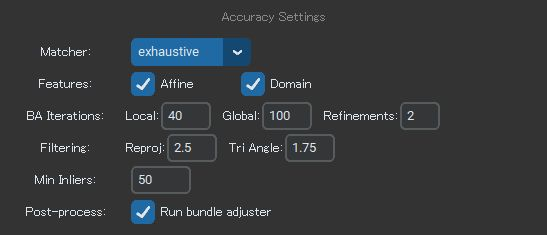
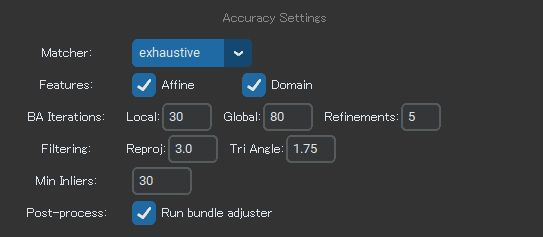
Expand Matcher tip with RANSAC tuning rationale in all four articles
Add explanation of the recommended parameter strategy for SphereSfM's
exhaustive matcher: set Iterations and Refinements high to increase RANSAC
sampling passes, and keep MinInliers low to avoid discarding weak-but-valid
loop closure candidates. Applied to Basic and Advanced articles in both JP
and EN.

diff --git a/Documents/Advanced/article.md b/Documents/Advanced/article.md
@@ -181,7 +181,8 @@ LichtFeld を選択すると、SfM・点群生成・Gaussian Splatting まで一
    その他の設定はデフォルトのままで問題ありません。
 
 > **💡 Matcher の選択について**  
-> `sequential` の代わりに `exhaustive` を選択すると、**Loop Closure** の精度が向上しやすくなります。さらに精度を高めたい場合は、下記画像を参考に条件を厳しめに設定することも可能ですが、処理時間が大幅に増加したり SfM が失敗するリスクもあるためご注意ください。
+> `sequential` の代わりに `exhaustive` を選択すると、**Loop Closure** の精度が向上しやすくなります。さらに精度を高めたい場合は、下記画像を参考に条件を厳しめに設定することも可能ですが、処理時間が大幅に増加したり SfM が失敗するリスクもあるためご注意ください。  
+> 筆者が試した設定の方針としては、**Iterations・Refinements は高め**（High に分類される値）に設定し、**MinInliers はあまり高くしない**というものです。Iterations と Refinements を高くすると、RANSAC のサンプリング試行と最適化が多く行われるため、共通特徴点が少ない（インライア率が低い）ペアに対しても正しいジオメトリを見つけやすくなります。一方 MinInliers を低めに保つと、特徴点の共通数が少ない「弱いマッチ」もジオメトリ検証を通過しやすくなり、ループ接続の糸口となるペアを取りこぼしにくくなります。つまり「**丁寧に検証して（Iterations/Refinements 高め）、その結果は捨てない（MinInliers 低め）**」という組み合わせで、ループクロージャを最大限に拾いにいく方針です。
 
 ![SphereSFM の詳細設定例](https://raw.githubusercontent.com/TakashiYoshinaga/360-to-RealityScan/main/Documents/Images/005-SphreSfM_Setting-02.jpg)
 

diff --git a/Documents/Basic/article.md b/Documents/Basic/article.md
@@ -145,7 +145,8 @@ LichtFeld を選択すると、SfM・点群生成・Gaussian Splatting まで一
    その他の設定はデフォルトのままで問題ありません。
 
 > **💡 Matcher の選択について**  
-> `sequential` の代わりに `exhaustive` を選択すると、**Loop Closure** の精度が向上しやすくなります。さらに精度を高めたい場合は、下記画像を参考に条件を厳しめに設定することも可能ですが、処理時間が大幅に増加したり SfM が失敗するリスクもあるためご注意ください。
+> `sequential` の代わりに `exhaustive` を選択すると、**Loop Closure** の精度が向上しやすくなります。さらに精度を高めたい場合は、下記画像を参考に条件を厳しめに設定することも可能ですが、処理時間が大幅に増加したり SfM が失敗するリスクもあるためご注意ください。  
+> 筆者が試した設定の方針としては、**Iterations・Refinements は高め**（High に分類される値）に設定し、**MinInliers はあまり高くしない**というものです。Iterations と Refinements を高くすると、RANSAC のサンプリング試行と最適化が多く行われるため、共通特徴点が少ない（インライア率が低い）ペアに対しても正しいジオメトリを見つけやすくなります。一方 MinInliers を低めに保つと、特徴点の共通数が少ない「弱いマッチ」もジオメトリ検証を通過しやすくなり、ループ接続の糸口となるペアを取りこぼしにくくなります。つまり「**丁寧に検証して（Iterations/Refinements 高め）、その結果は捨てない（MinInliers 低め）**」という組み合わせで、ループクロージャを最大限に拾いにいく方針です。
 
 ![SphereSFM の詳細設定例](https://raw.githubusercontent.com/TakashiYoshinaga/360-to-RealityScan/main/Documents/Images/005-SphreSfM_Setting-02.jpg)
 

diff --git a/Documents/Advanced/article-EN.md b/Documents/Advanced/article-EN.md
@@ -181,7 +181,8 @@ My preferred settings are:
    Other settings can be left at their defaults.
 
 > **💡 About Matcher Selection**  
-> Choosing `exhaustive` over `sequential` tends to improve **Loop Closure** accuracy. For even better accuracy, you can tighten the conditions as shown in the image below, but note that this can significantly increase processing time or cause SfM to fail.
+> Choosing `exhaustive` over `sequential` tends to improve **Loop Closure** accuracy. For even better accuracy, you can tighten the conditions as shown in the image below, but note that this can significantly increase processing time or cause SfM to fail.  
+> The author's approach is to set **Iterations and Refinements high** (values in the High range) while **keeping MinInliers relatively low**. Raising Iterations and Refinements increases the number of RANSAC sampling attempts and optimization passes, making it easier to find the correct geometry even for pairs with few common feature points (low inlier ratio). Keeping MinInliers low allows "weak matches" with fewer common features to pass geometric verification, reducing the chance of missing pairs that could serve as loop closure anchors. In short, the strategy is "**verify thoroughly (high Iterations/Refinements), but don't discard the results (low MinInliers)**" — designed to capture as many loop closures as possible.
 
 ![SphereSFM Advanced Settings](https://raw.githubusercontent.com/TakashiYoshinaga/360-to-RealityScan/main/Documents/Images/005-SphreSfM_Setting-02.jpg)
 

diff --git a/Documents/Basic/article-EN.md b/Documents/Basic/article-EN.md
@@ -145,7 +145,8 @@ My preferred settings are:
    Other settings can be left at their defaults.
 
 > **💡 About Matcher Selection**  
-> Choosing `exhaustive` over `sequential` tends to improve **Loop Closure** accuracy. For even better accuracy, you can tighten the conditions as shown in the image below, but note that this can significantly increase processing time or cause SfM to fail.
+> Choosing `exhaustive` over `sequential` tends to improve **Loop Closure** accuracy. For even better accuracy, you can tighten the conditions as shown in the image below, but note that this can significantly increase processing time or cause SfM to fail.  
+> The author's approach is to set **Iterations and Refinements high** (values in the High range) while **keeping MinInliers relatively low**. Raising Iterations and Refinements increases the number of RANSAC sampling attempts and optimization passes, making it easier to find the correct geometry even for pairs with few common feature points (low inlier ratio). Keeping MinInliers low allows "weak matches" with fewer common features to pass geometric verification, reducing the chance of missing pairs that could serve as loop closure anchors. In short, the strategy is "**verify thoroughly (high Iterations/Refinements), but don't discard the results (low MinInliers)**" — designed to capture as many loop closures as possible.
 
 ![SphereSFM Advanced Settings](https://raw.githubusercontent.com/TakashiYoshinaga/360-to-RealityScan/main/Documents/Images/005-SphreSfM_Setting-02.jpg)
 
